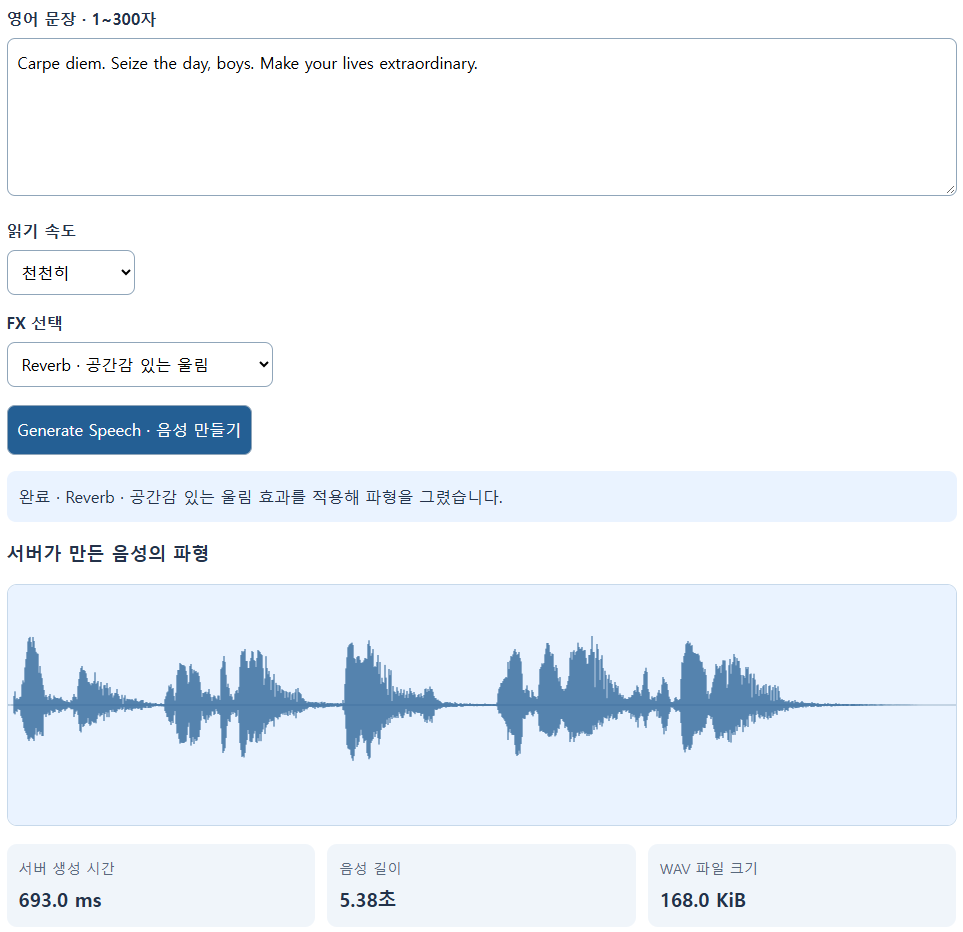
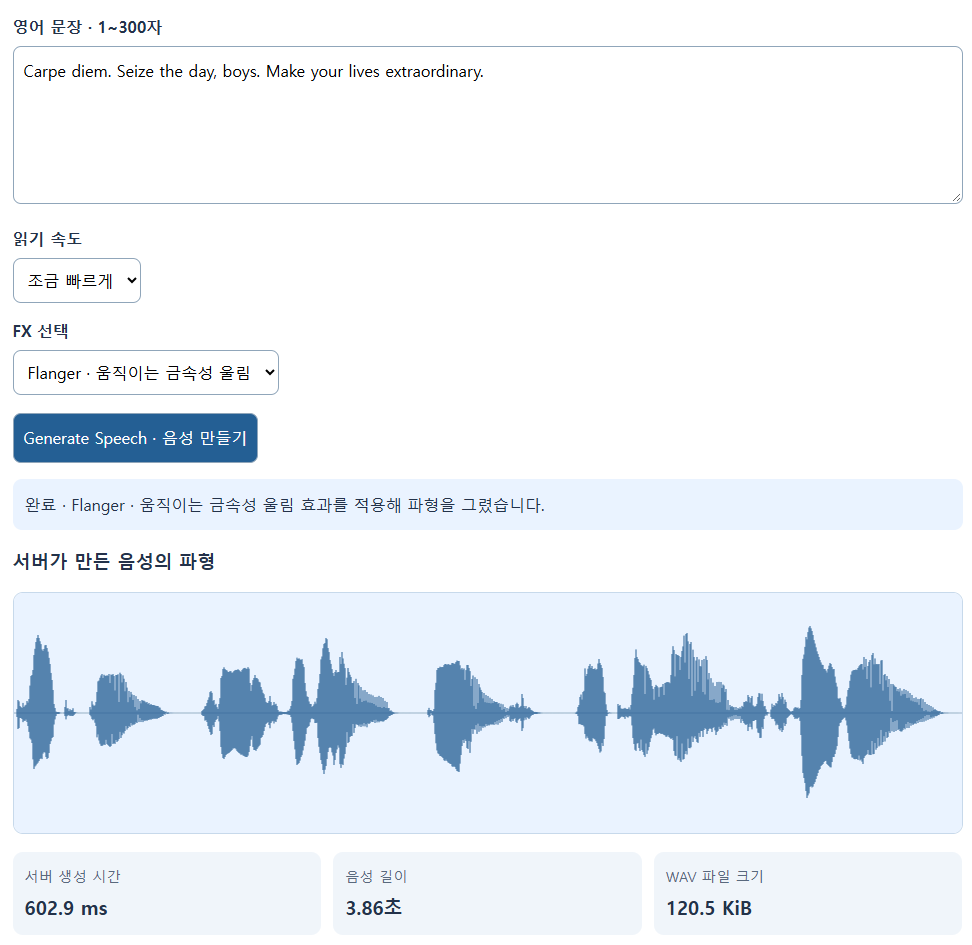
feat: 6주차 실습 수정

diff --git a/week6/app.py b/week6/app.py
@@ -92,8 +92,10 @@ def process_image():
     else:
         softened = cv2.GaussianBlur(image, (kernel, kernel), 0)
         gray = cv2.cvtColor(softened, cv2.COLOR_BGR2GRAY)
-        edges = cv2.Canny(gray, 100, 200)
-        result = cv2.bitwise_not(edges)
+        base = cv2.convertScaleAbs(gray, alpha=1.05, beta=5)
+        result = (base // 32) * 32 + 16
+        edges = cv2.Canny(gray, 60, 140)
+        result[edges > 0] = (result[edges > 0] * 0.35).astype(np.uint8)
     compute_ms = (perf_counter() - compute_started) * 1000
     ok, encoded = cv2.imencode(".png", result)
     if not ok:

diff --git a/README.md b/README.md
@@ -153,12 +153,12 @@
 
 | 조건 | 결과 화면 |
 |---|---|
-| 조금 빠르게, Flanger | ![조금 빠르게 Flanger 결과](images/w6a2.png) |
-| 천천히, Reverb | ![천천히 Reverb 결과](images/w6a3.png) |
+| 조금 빠르게, Flanger | ![조금 빠르게 Flanger 결과](images/w6a3.png) |
+| 천천히, Reverb | ![천천히 Reverb 결과](images/w6a4.png) |
 
 - 요청·응답 확인 기록: 브라우저가 `/api/tts`에 `text`, `length_scale`, `fx`를 JSON으로 보내고, 서버가 처리된 `audio/wav`와 `X-Processing-Ms`, `X-FX` 헤더를 반환하는 것을 확인했다.
 
 ### AI 활용 (사용했다면)
 - 도움받은 작업과 대표 질문: `tts사이트에 소리를 재미있게 바꿔주는 항목을 추가하고 싶어. "읽기 속도" 항목 아래에 "FX 선택" 을 만들고, None, Flanger, Chorus, Reverb"를 넣어줘. 그리고 각 fx를 적용하고 음성만들기 버튼을 누르면 각 기능이 적용된 소리가 추출되도록 만들어줘. Flanger, Chorus, Reverb 값은 reddit 등 음향 커뮤니티를 참고하여 가장 많이 쓰는 파라미터로 적용해봐`
-- 직접 수정한 부분: None·Flanger·Chorus·Reverb FX 선택 기능을 추가했다.
+- 직접 수정한 부분: `None` · `Flanger` · `Chorus` · `Reverb` FX 선택 기능을 추가했다.
 - 실행하여 확인한 내용: 원하는 FX를 선택하고 `Generate Speech · 음성 만들기` 버튼을 누르면 각 FX가 적용된 소리와 파형이 생성된다.
